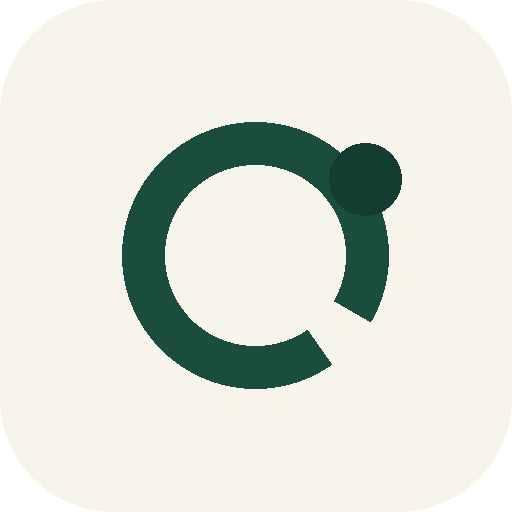
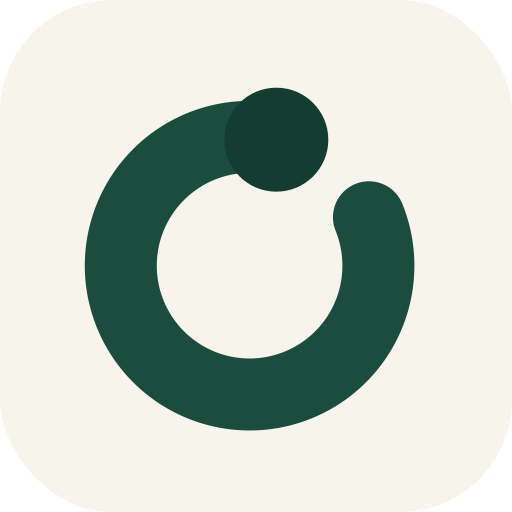
Add a hand-drawn Agent Allowance mark and lockups.
The mark is an open ring with the remaining-allowance dot, drawn to read at 16px. Lockups, the app icon, and the favicon live in dashboard/public/brand and are used in the header, the loading screen, and the README.

Changed region(s): [[0.1562, 0.1562, 0.8125, 0.8438], [0.6562, 0.4375, 0.6875, 0.5625]]

diff --git a/docs/brand-sheet.html b/docs/brand-sheet.html
@@ -4,64 +4,81 @@
     <meta charset="utf-8" />
     <title>Agent Allowance brand sheet</title>
     <link rel="preconnect" href="https://fonts.googleapis.com" />
-    <link href="https://fonts.googleapis.com/css2?family=IBM+Plex+Sans:wght@400;500;600&display=swap" rel="stylesheet" />
+    <link href="https://fonts.googleapis.com/css2?family=Inter:wght@400;500;600&family=Outfit:wght@600&display=swap" rel="stylesheet" />
     <style>
-      body { margin: 0; font-family: "IBM Plex Sans", sans-serif; background: #EFECE4; color: #1A1814; }
-      main { width: 1100px; margin: 0 auto; padding: 32px; display: grid; gap: 24px; }
-      h1 { font-size: 32px; font-weight: 600; margin: 0; }
-      p { margin: 0; }
-      .row { display: flex; gap: 24px; align-items: center; flex-wrap: wrap; }
-      .tile { background: #FBF9F4; border-radius: 16px; padding: 24px; }
-      .dark { background: #121411; color: #F4F0E6; }
-      .sizes { display: flex; gap: 16px; align-items: end; }
-      .swatch { width: 72px; height: 72px; border-radius: 12px; }
-      figcaption { font-size: 13px; color: #5A534A; margin-top: 8px; }
+      body { margin: 0; font-family: Inter, sans-serif; background: #ECE8DE; color: #1A1814; }
+      main { width: 1120px; margin: 0 auto; padding: 40px 36px 48px; display: grid; gap: 28px; }
+      h1 { font-family: Outfit, Inter, sans-serif; font-size: 40px; font-weight: 600; letter-spacing: -0.03em; margin: 0; }
+      .tag { margin: 6px 0 0; font-size: 17px; }
+      .row { display: flex; gap: 20px; align-items: stretch; flex-wrap: wrap; }
+      .tile { background: #fff; border: 1px solid #7C7468; border-radius: 16px; padding: 20px; }
+      .dark { background: #121411; color: #F7F4EC; }
+      figcaption { font-size: 13px; font-weight: 600; color: #5A534A; margin-top: 12px; }
+      .dark figcaption { color: #C9C2B4; }
+      .sizes { display: flex; gap: 20px; align-items: end; }
+      .swatches { display: flex; gap: 16px; }
+      .swatch { width: 88px; }
+      .chip { height: 64px; border-radius: 12px; }
+      .swatch p { margin: 8px 0 0; font-size: 13px; font-weight: 600; }
+      .swatch span { display: block; font-weight: 400; color: #5A534A; }
     </style>
   </head>
   <body>
     <main>
-      <h1>Agent Allowance</h1>
-      <p>Spending power for AI, with a human key.</p>
+      <header>
+        <h1>Agent Allowance</h1>
+        <p class="tag">Spending power for AI, with a human key.</p>
+      </header>
       <section class="row">
         <figure class="tile">
-          <img src="../dashboard/public/brand/mark.svg" width="64" height="64" alt="Pine mark" />
+          <img src="../dashboard/public/brand/mark.svg" width="72" height="72" alt="Pine mark" />
           <figcaption>Pine mark</figcaption>
         </figure>
         <figure class="tile">
-          <img src="../dashboard/public/brand/mark-light.svg" width="64" height="64" alt="Light mark" />
+          <img src="../dashboard/public/brand/mark-light.svg" width="72" height="72" alt="Light mark" />
           <figcaption>Light mark</figcaption>
         </figure>
-        <figure class="tile">
-          <img src="../dashboard/public/brand/lockup-horizontal.svg" width="280" alt="Horizontal lockup" />
-          <figcaption>Horizontal lockup</figcaption>
-        </figure>
-        <figure class="tile">
-          <img src="../dashboard/public/brand/lockup-stacked.svg" width="180" alt="Stacked lockup" />
-          <figcaption>Stacked lockup</figcaption>
-        </figure>
-      </section>
-      <section class="row">
         <figure class="tile dark">
-          <img src="../dashboard/public/brand/lockup-horizontal-dark.svg" width="280" alt="Dark horizontal lockup" />
-          <figcaption style="color:#C9C2B4">Dark lockup</figcaption>
+          <img src="../dashboard/public/brand/mark-dark.svg" width="72" height="72" alt="Dark mark" />
+          <figcaption>Dark mark</figcaption>
         </figure>
-        <figure class="tile dark">
-          <img src="../dashboard/public/brand/app-icon-512.png" width="96" height="96" alt="App icon" />
-          <figcaption style="color:#C9C2B4">App icon</figcaption>
-        </figure>
-        <div class="sizes tile">
+        <figure class="tile sizes">
           <img src="../dashboard/public/brand/mark.svg" width="16" height="16" alt="16 pixel mark" />
           <img src="../dashboard/public/brand/mark.svg" width="24" height="24" alt="24 pixel mark" />
           <img src="../dashboard/public/brand/mark.svg" width="32" height="32" alt="32 pixel mark" />
-          <figcaption>16, 24, and 32</figcaption>
-        </div>
+          <figcaption>16, 24, 32</figcaption>
+        </figure>
+        <figure class="tile">
+          <img src="../dashboard/public/brand/app-icon-512.png" width="72" height="72" alt="App icon" />
+          <figcaption>App icon</figcaption>
+        </figure>
       </section>
       <section class="row">
-        <div class="swatch" style="background:#1B4D3E"></div>
-        <div class="swatch" style="background:#F7F4EC;border:1px solid #E3DCD0"></div>
-        <div class="swatch" style="background:#C6F36B"></div>
-        <div class="swatch" style="background:#8A4518"></div>
-        <div class="swatch" style="background:#8E2218"></div>
+        <figure class="tile">
+          <img src="../dashboard/public/brand/lockup-horizontal.svg" width="340" alt="Horizontal lockup" />
+          <figcaption>Horizontal, light</figcaption>
+        </figure>
+        <figure class="tile">
+          <img src="../dashboard/public/brand/lockup-stacked.svg" width="200" alt="Stacked lockup" />
+          <figcaption>Stacked, light</figcaption>
+        </figure>
+      </section>
+      <section class="row">
+        <figure class="tile dark">
+          <img src="../dashboard/public/brand/lockup-horizontal-dark.svg" width="340" alt="Dark horizontal lockup" />
+          <figcaption>Horizontal, dark</figcaption>
+        </figure>
+        <figure class="tile dark">
+          <img src="../dashboard/public/brand/lockup-stacked-dark.svg" width="200" alt="Dark stacked lockup" />
+          <figcaption>Stacked, dark</figcaption>
+        </figure>
+      </section>
+      <section class="swatches">
+        <div class="swatch"><div class="chip" style="background:#1B4D3E"></div><p>Pine <span>#1B4D3E</span></p></div>
+        <div class="swatch"><div class="chip" style="background:#F7F4EC;border:1px solid #7C7468"></div><p>Cream <span>#F7F4EC</span></p></div>
+        <div class="swatch"><div class="chip" style="background:#C6F36B"></div><p>Accent <span>#C6F36B</span></p></div>
+        <div class="swatch"><div class="chip" style="background:#F8EFE4"></div><p>Amber <span>#8A4518</span></p></div>
+        <div class="swatch"><div class="chip" style="background:#F8E8E4"></div><p>Red <span>#8E2218</span></p></div>
       </section>
     </main>
   </body>

diff --git a/dashboard/src/App.jsx b/dashboard/src/App.jsx
@@ -19,7 +19,6 @@ import {
   IconLock,
   IconReceipt,
   IconSettings,
-  LogoMark,
 } from './icons.jsx';
 import JevCard from './JevCard.jsx';
 import { money, relativeTime, shortAddress, when } from './format.js';
@@ -431,7 +430,7 @@ export default function App() {
       <div className="sr-only" aria-live="polite">{announce}</div>
       <aside className="sidenav">
         <div className="sidenav-brand" aria-hidden="true">
-          <LogoMark size={32} />
+          <img className="logo-mark" src="/brand/mark.svg" width="32" height="32" alt="" />
           <p>Agent Allowance</p>
         </div>
         <nav className="sidenav-nav" aria-label="Primary">
@@ -454,7 +453,7 @@ export default function App() {
         <div className="shell">
           <header className="top">
             <div className="brand">
-              <LogoMark size={40} />
+              <img className="logo-mark" src="/brand/mark.svg" width="40" height="40" alt="" />
               <div>
                 <h1>Agent Allowance</h1>
                 <p className="lede">The agent decides what to buy. It cannot decide what it is allowed to spend.</p>
@@ -1098,7 +1097,7 @@ function Skeletons() {
     <div className="stack" aria-busy="true" aria-live="polite">
       <p className="sr-only">Loading the allowance</p>
       <div className="loading-brand">
-        <LogoMark size={40} />
+        <img className="logo-mark" src="/brand/mark.svg" width="40" height="40" alt="" />
         <p>Agent Allowance</p>
       </div>
       <div className="card hero-skeleton" aria-hidden="true">

diff --git a/dashboard/src/icons.jsx b/dashboard/src/icons.jsx
@@ -13,15 +13,14 @@ const pen = {
   strokeLinejoin: 'round',
 };
 
+/** Same drawing as dashboard/public/brand/mark.svg. The dot is the allowance still left. */
 export function LogoMark({ tone = 'pine', size = 36 }) {
-  const bg = tone === 'cream' ? '#F7F4EC' : '#1B4D3E';
-  const stroke = tone === 'cream' ? '#1B4D3E' : '#F7F4EC';
-  const dot = tone === 'cream' ? '#143D31' : '#F7F4EC';
+  const pine = tone !== 'cream';
   return (
-    <svg className="logo-mark" width={size} height={size} viewBox="0 0 36 36" aria-hidden="true">
-      <rect width="36" height="36" rx="8" fill={bg} />
-      <path d="M23.5 24.6A8.6 8.6 0 1 1 25.5 13.7" stroke={stroke} strokeWidth="3" fill="none" strokeLinecap="round" />
-      <circle cx="25.5" cy="13.7" r="2.5" fill={dot} />
+    <svg className="logo-mark" width={size} height={size} viewBox="0 0 32 32" aria-hidden="true">
+      <rect width="32" height="32" rx="7" fill={pine ? '#1B4D3E' : '#F7F4EC'} />
+      <path d="M 23.06 13.58 A 8.05 8.05 0 1 1 17.27 8.73" fill="none" stroke={pine ? '#F7F4EC' : '#1B4D3E'} strokeWidth="4.5" strokeLinecap="round" />
+      <circle cx="17.27" cy="8.73" r="3.25" fill={pine ? '#C6F36B' : '#143D31'} />
     </svg>
   );
 }

diff --git a/dashboard/index.html b/dashboard/index.html
@@ -12,6 +12,7 @@
     <link rel="icon" type="image/svg+xml" href="/brand/favicon.svg" />
     <link rel="icon" type="image/png" sizes="32x32" href="/brand/favicon-32.png" />
     <link rel="apple-touch-icon" href="/brand/apple-touch-icon.png" />
+    <link rel="icon" type="image/png" sizes="512x512" href="/brand/app-icon-512.png" />
     <script>
       try {
         var theme = localStorage.getItem('allowance-theme') || 'light';

diff --git a/dashboard/src/styles.css b/dashboard/src/styles.css
@@ -177,6 +177,7 @@ p { margin: 0; }
 .app.is-present h1 { font-size: clamp(1.6rem, 7vw, 2.1rem); }
 .brand { display: flex; gap: 12px; align-items: center; min-width: 0; }
 .logo-mark { display: block; flex: none; }
+.brand h1, .loading-brand, .sidenav-brand p { font-family: var(--display); font-weight: 600; letter-spacing: -0.03em; }
 
 .sidenav { display: none; }
 

diff --git a/docs/BRAND.md b/docs/BRAND.md
@@ -2,50 +2,56 @@
 
 Spending power for AI, with a human key.
 
-The mark is an open ring. The gap is the limit. The dot rides the ring, which is the allowance still left. It is not a warning, and it is not a letterform with a bar through it.
+The mark is an open ring. The gap is the limit you set. The lime dot rides the open end, which is the allowance still left. It is not a warning, and it is not a letter with a bar through it.
 
 ## Iterations
 
-1. A closed ring with a stem and a gold dot in the middle. At 16px it read as an exclamation point. That is a warning glyph, and it fights the product: the allowance is a limit you set, not an alarm.
-2. A thin almost-complete ring with a small dot floating inside the gap. The ring looked like a spinner, and the dot disappeared at 16px. The two parts did not belong to one shape.
-3. A thicker open ring, with the dot seated on the open end. The stroke is heavy enough to read at 16px. The lime dot is only on the pine tile, where it stays a small accent. This is the mark in the app.
+1. A closed ring with a stem and a gold dot in the middle. At 16px it read as an exclamation point. That is an alarm, and it fights the product: the allowance is a limit you set, not a warning.
+2. A thin almost-complete ring with a small dot floating in the gap. The ring looked like a spinner, and the dot disappeared at 16px.
+3. A thick open ring, with the dot seated on the upper end of the stroke. The stroke and the dot both survive at 16px. This is the mark.
 
 ## Palette
 
 | Role | Hex | Use |
 | --- | --- | --- |
-| Pine | `#1B4D3E` | Primary, the hero, the app icon |
-| Cream | `#F7F4EC` | Type on pine, light tile |
-| Page | `#EFECE4` | Page background |
+| Pine | `#1B4D3E` | Primary. App icon, hero, mark tile |
+| Pine ink | `#143D31` | The dot on a cream tile, selected text |
+| Cream | `#F7F4EC` | Type on pine, the ring on the pine tile |
+| Page | `#ECE8DE` | Page background |
 | Ink | `#1A1814` | Text on cream |
-| Accent | `#C6F36B` | The dot on the pine tile only |
-| Amber | `#8A4518` | Waiting |
-| Red | `#8E2218` | Blocked |
+| Accent | `#C6F36B` | The remaining-allowance dot, and the ring in the product that shows what is left |
+| Amber | `#8A4518` on `#F8EFE4` | Needs you |
+| Red | `#8E2218` on `#F8E8E4` | Blocked |
 
-Do not paint large areas with the accent. Amber and red are status, not decoration.
+The accent is one small place, not a fill. Amber and red are status, not decoration.
 
 ## Type
 
-Inter 400, 500, 600, and 700 for the interface. Outfit 700 is only the balance and large headings. Labels are 13px, sentence case, with no tracking. The lime accent is only the ring that shows what is left.
+Inter 400, 500, 600, and 700 for the interface. Outfit 600 and 700 for the wordmark, the product name, and the balance. Labels are 13px, sentence case, with no tracking.
 
 ## Logo
 
 | File | Use |
 | --- | --- |
-| `dashboard/public/brand/mark.svg` | Pine tile, cream ring, lime dot |
-| `dashboard/public/brand/mark-light.svg` | Cream tile, pine ring |
-| `dashboard/public/brand/lockup-horizontal.svg` | Mark plus the name, one line |
-| `dashboard/public/brand/lockup-stacked.svg` | Mark above the name |
-| `dashboard/public/brand/lockup-horizontal-dark.svg` | Same lockup for a dark page |
-| `dashboard/public/brand/lockup-stacked-dark.svg` | Stacked lockup for a dark page |
-| `dashboard/public/brand/app-icon.svg` | Rounded pine tile |
+| `dashboard/public/brand/mark.svg` | Pine tile, cream ring, lime dot. Header, loading, favicon source |
+| `dashboard/public/brand/mark-light.svg` | Cream tile, pine ring, pine dot. Light surfaces |
+| `dashboard/public/brand/mark-dark.svg` | Cream ring and lime dot, no tile. Dark surfaces |
+| `dashboard/public/brand/lockup-horizontal.svg` | Mark and the name on one line, for light pages |
+| `dashboard/public/brand/lockup-horizontal-dark.svg` | Same lockup, cream name, for dark pages |
+| `dashboard/public/brand/lockup-stacked.svg` | Mark above the name, for light pages |
+| `dashboard/public/brand/lockup-stacked-dark.svg` | Stacked lockup, cream name, for dark pages |
+| `dashboard/public/brand/app-icon.svg` | Rounded pine tile, the app icon |
 | `dashboard/public/brand/favicon.svg` | Browser tab |
 | `dashboard/public/brand/favicon-32.png` | 32px PNG |
 | `dashboard/public/brand/apple-touch-icon.png` | 180px PNG |
 | `dashboard/public/brand/app-icon-512.png` | 512px PNG |
 
-Clear space is the height of the dot, on every side. Do not redraw the ring as a full circle, add a word inside it, or set the mark smaller than 16px.
+The wordmark is Outfit, drawn as paths, so it does not depend on a font being installed.
+
+Clear space on every side is the diameter of the lime dot. Do not close the ring, put a word inside it, or add a second accent. Do not set the mark smaller than 16px. Do not recolor the lime dot to red or amber.
+
+`docs/brand-sheet.png` shows the mark, both lockups, light and dark, the app icon, and the mark at 16, 24, and 32.
 
 ## Voice
 
-Plain sentences. Say what happened and what the person can do. Do not shout in labels, and do not joke with sample identifiers.
+Plain sentences. Say what happened and what the person can do. Status words are Needs you, Blocked, Paid, and Paid · Ledger. Do not shout in labels, and do not joke with sample identifiers.

diff --git a/README.md b/README.md
@@ -2,6 +2,8 @@
 
 <img src="dashboard/public/brand/lockup-horizontal.svg" alt="Agent Allowance" width="280" />
 
+Spending power for AI, with a human key.
+
 [![Tests](https://github.com/michaelnjoku347/Agent-allowance/actions/workflows/test.yml/badge.svg)](https://github.com/michaelnjoku347/Agent-allowance/actions/workflows/test.yml)
 
 ## Run it
